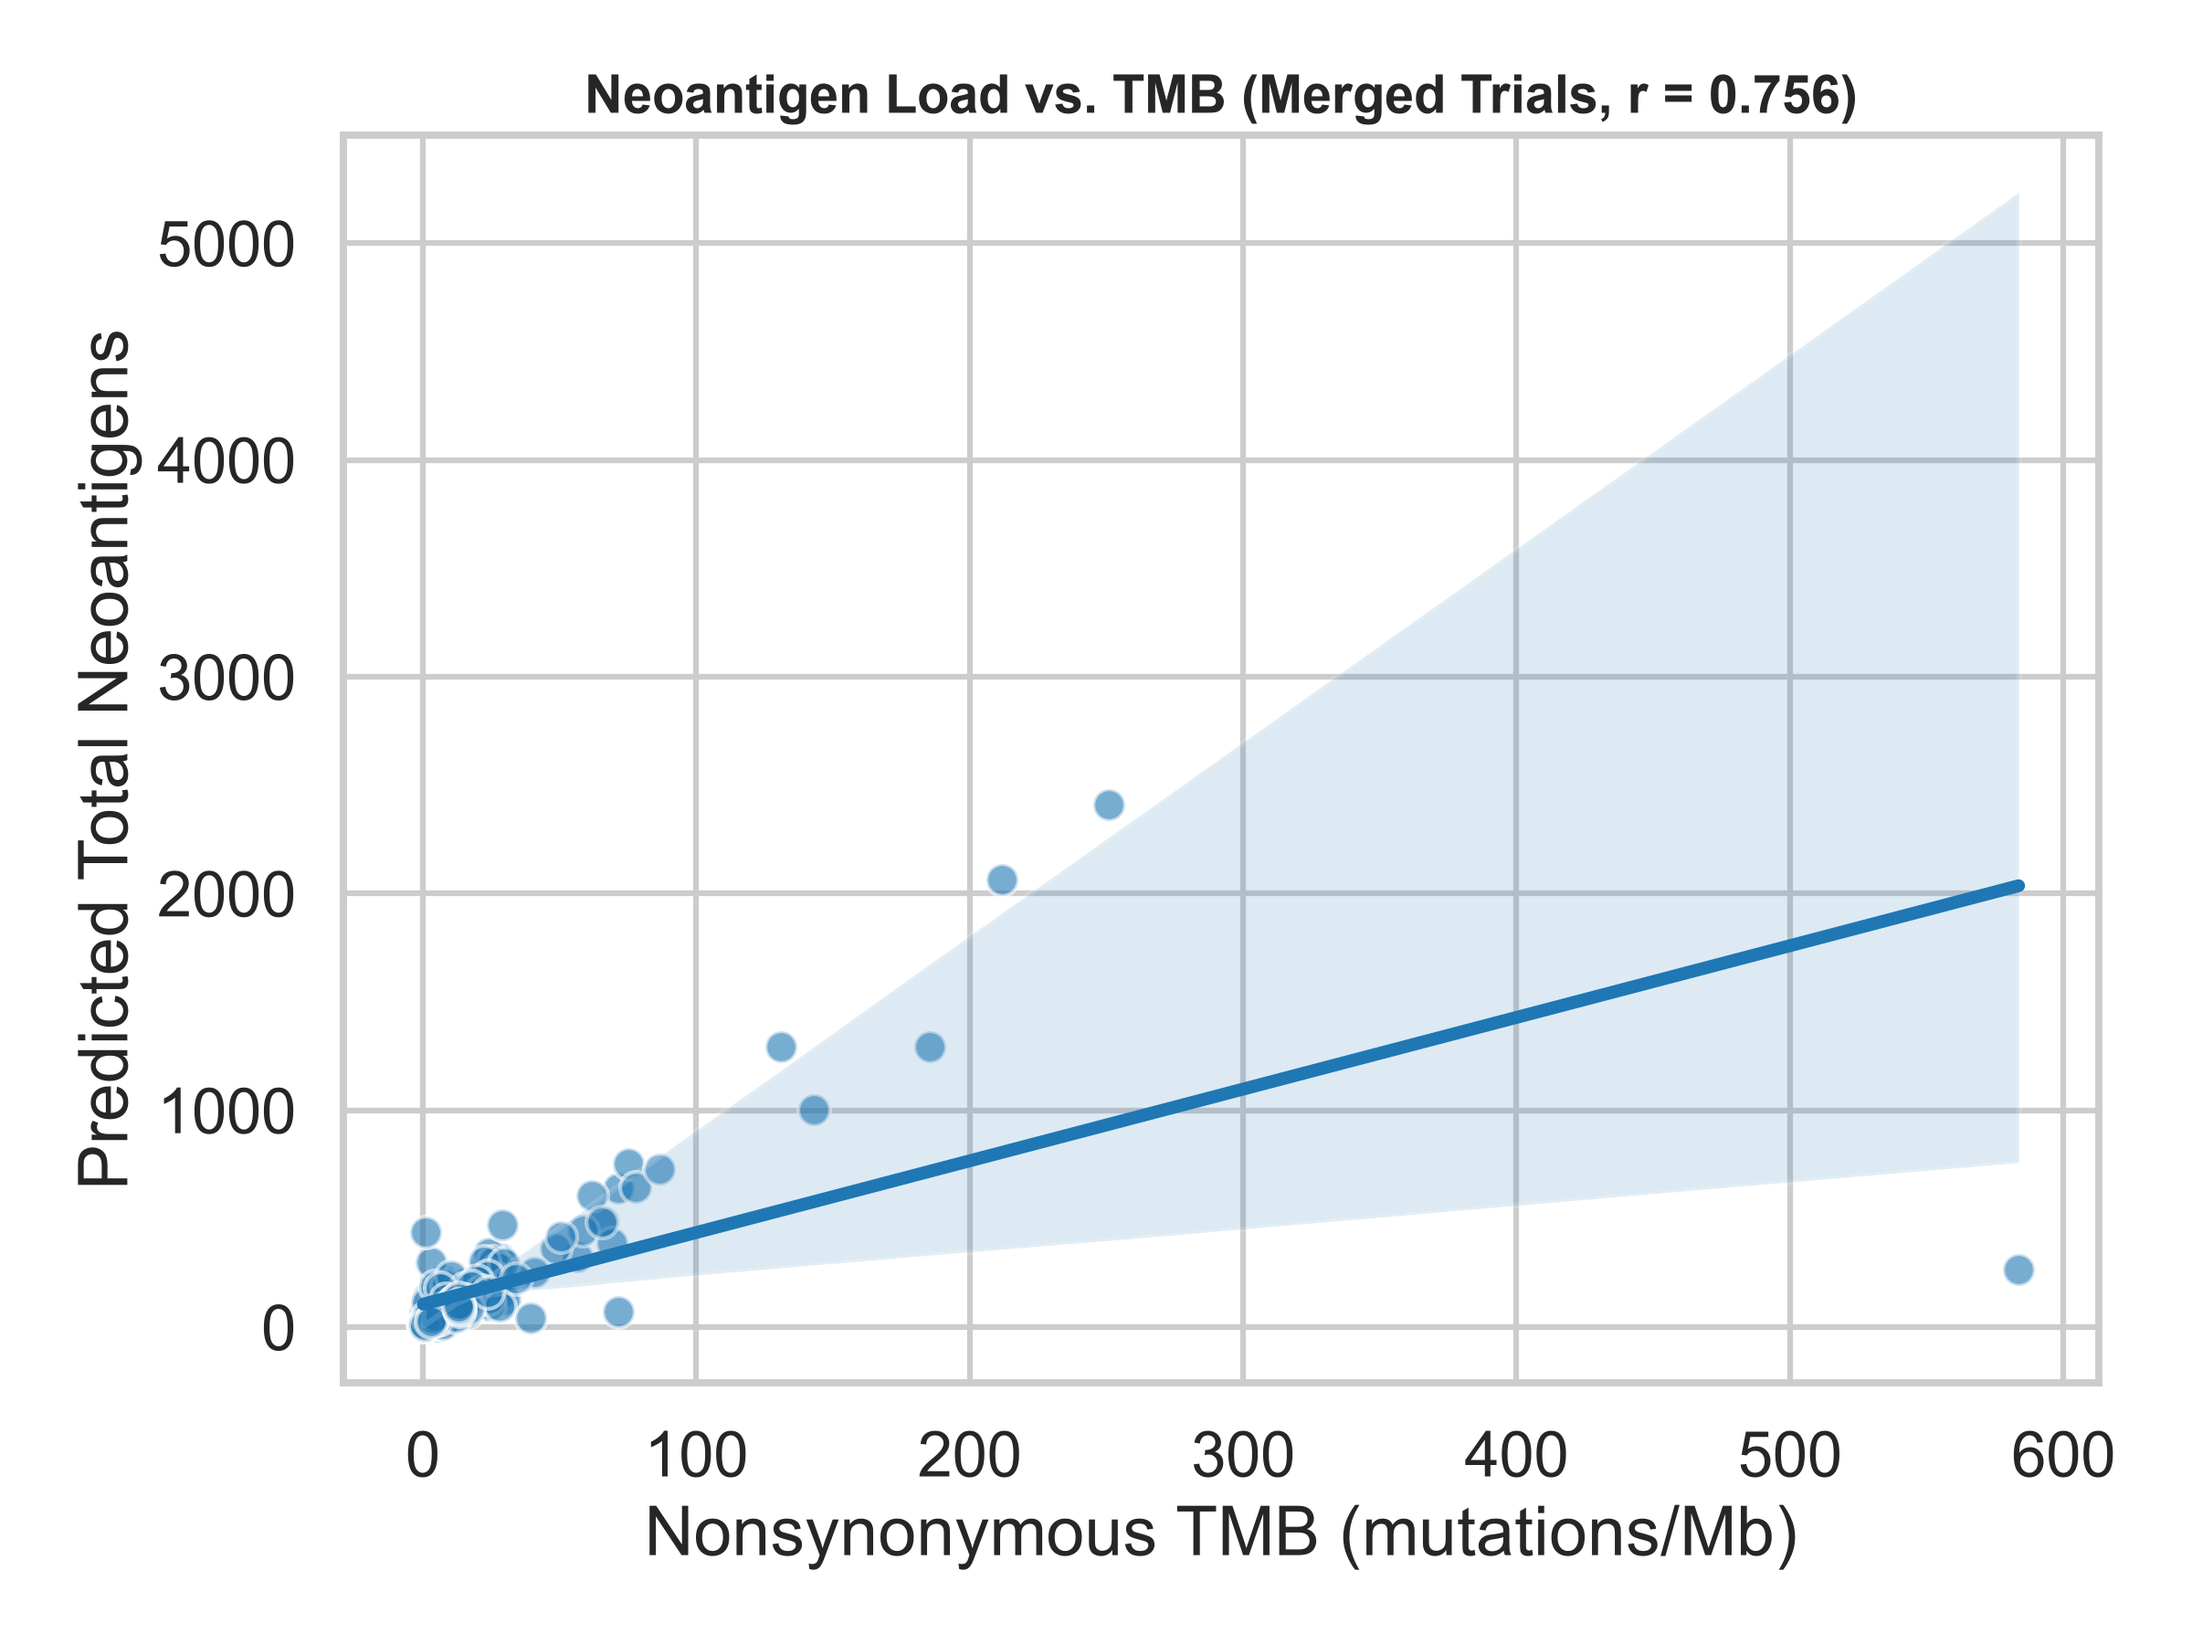
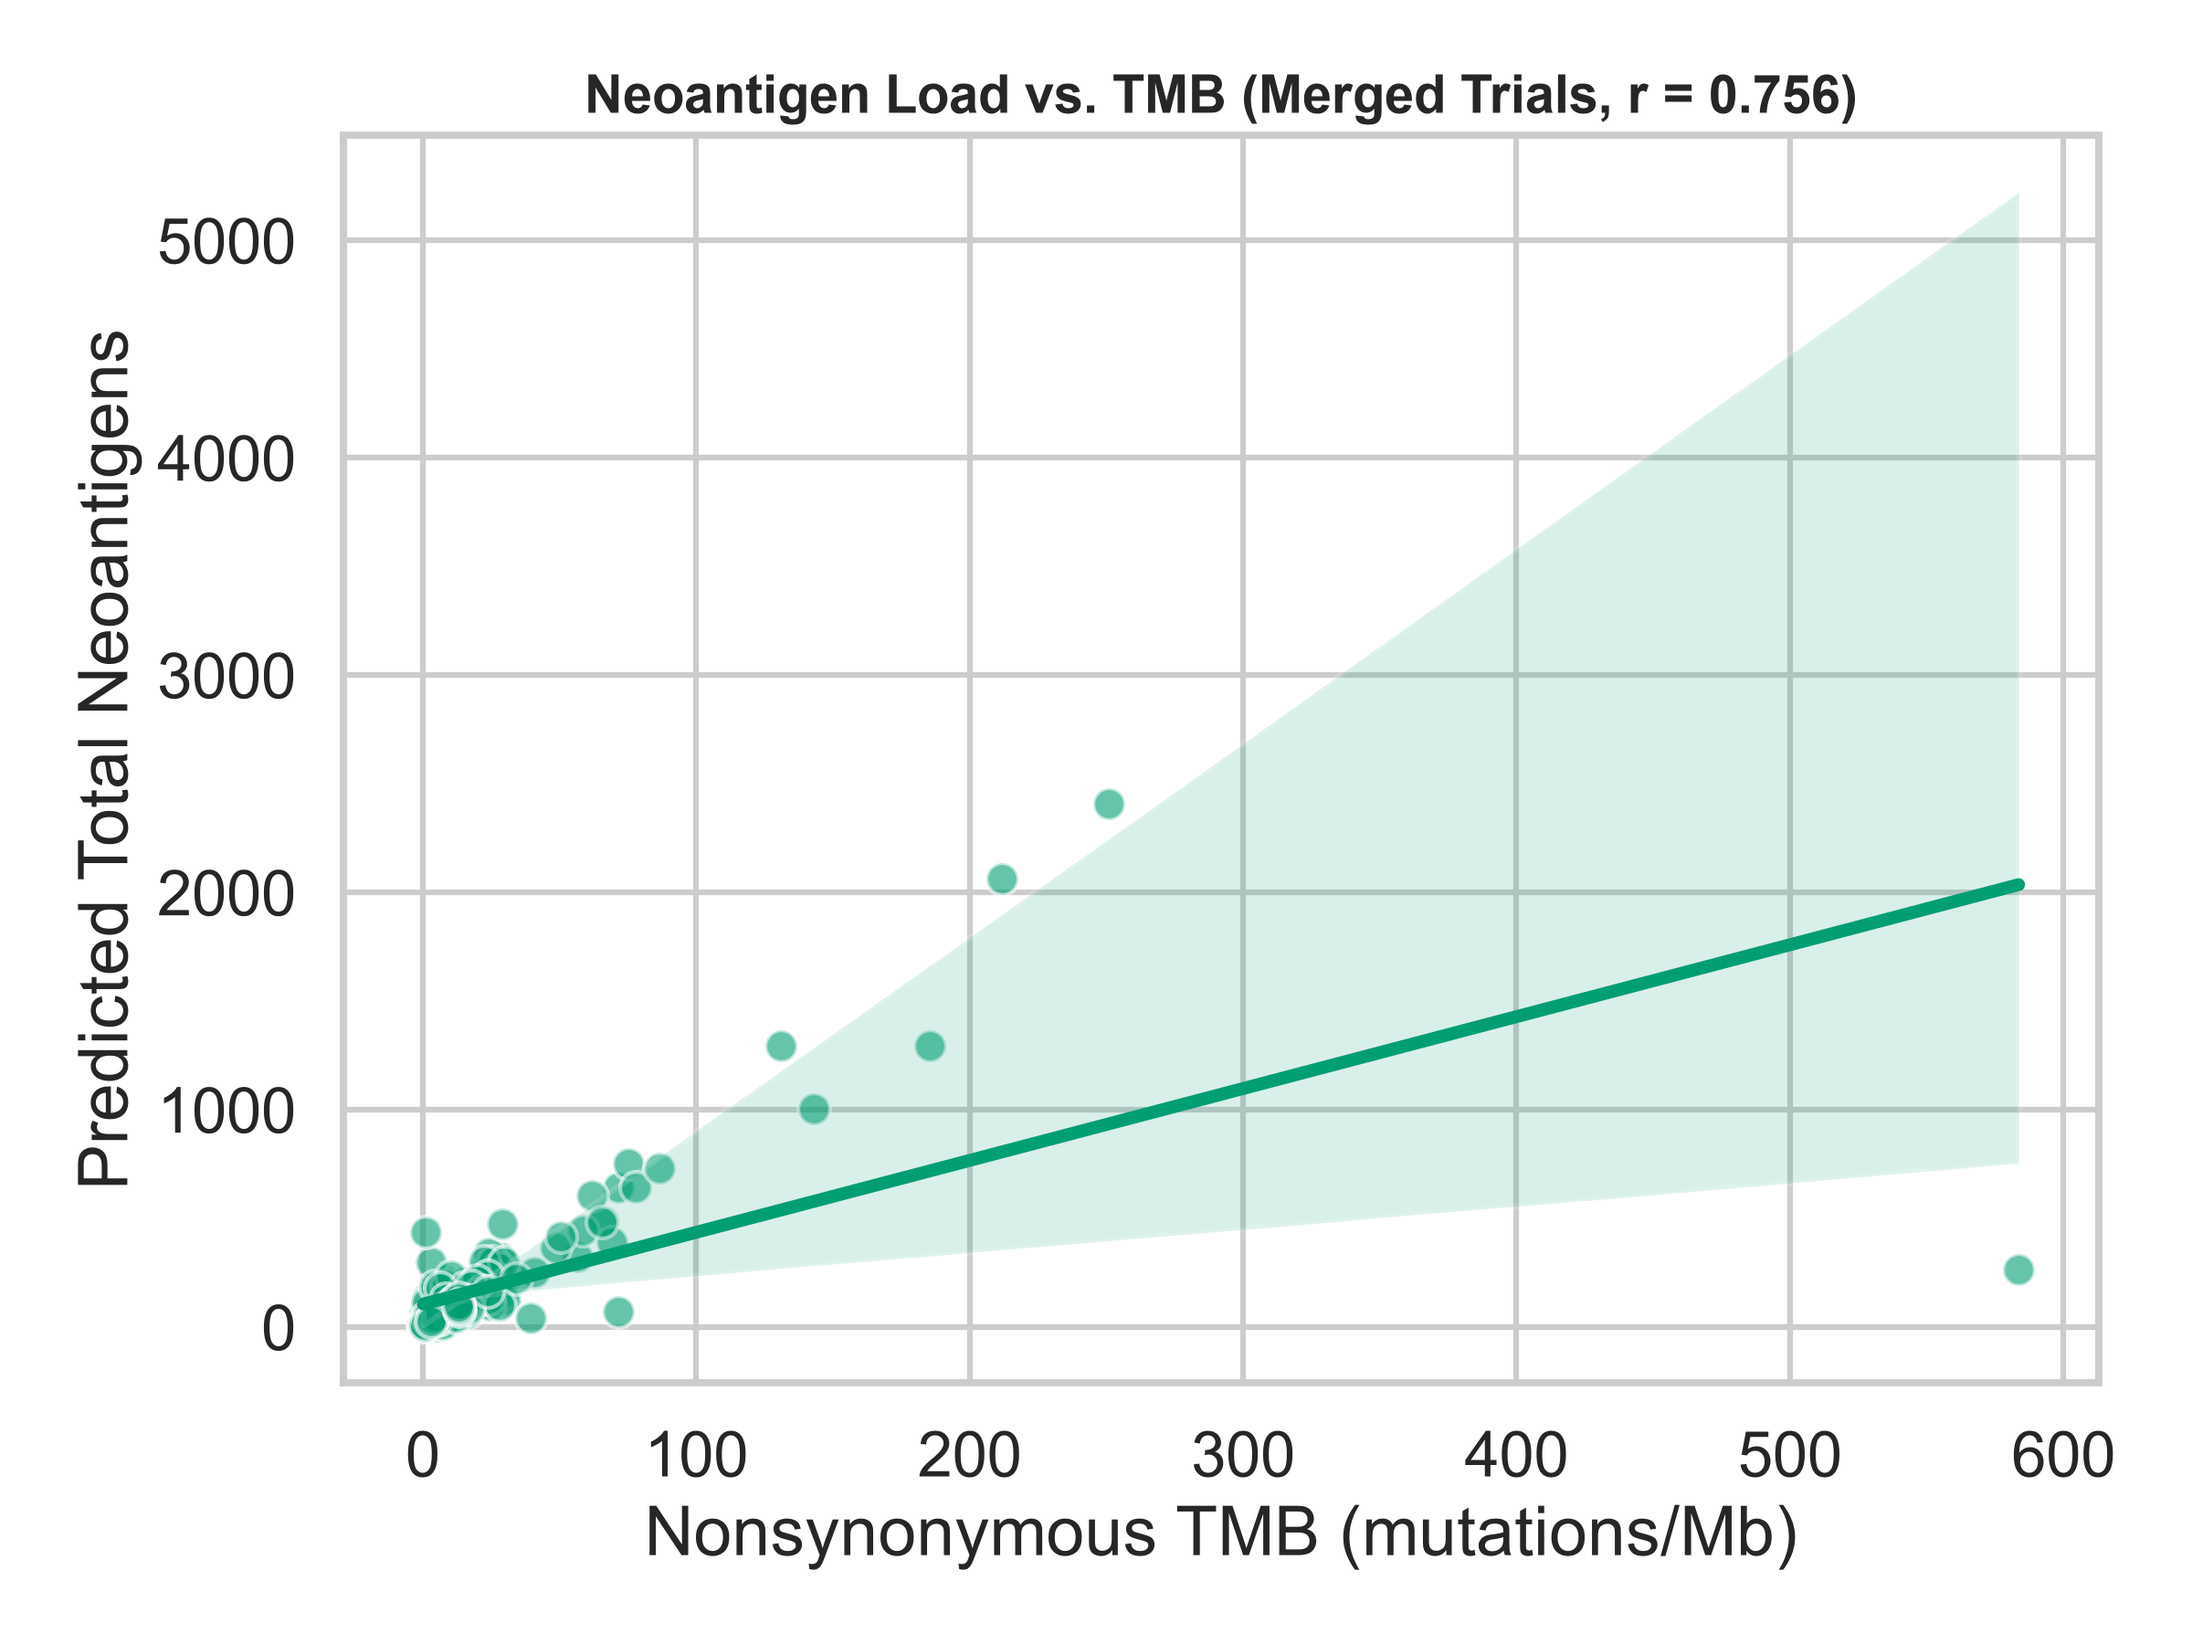
style(biomarkers): fix neoantigen vs TMB scatter to use Okabe-Ito Pooled Trials colour (#009E73)

diff --git a/q1-response-predictor/scripts/biomarkers/run_extended_biomarkers.py b/q1-response-predictor/scripts/biomarkers/run_extended_biomarkers.py
@@ -32,8 +32,9 @@ PLOT_DIR.mkdir(exist_ok=True, parents=True)
 REPORTS_DIR = BASE_DIR / "reports"
 REPORTS_DIR.mkdir(exist_ok=True, parents=True)
 
-# Import signature extractor
+# Import signature extractor and styles
 from src.signatures import extract_all_signatures
+from src.styles import COHORT_PALETTE, RESPONSE_PALETTE, set_presentation_style
 
 def clean_os_status(val):
     if pd.isna(val):
@@ -260,7 +261,7 @@ def main():
     # Plot Neoantigen vs TMB scatter
     sns.set_theme(style="whitegrid", context="talk")
     fig, ax = plt.subplots(figsize=(8, 6))
-    sns.regplot(data=df_trials_neo, x='TMB_NONSYNONYMOUS', y='TOTAL_NEOANTIGEN', color='#1f77b4', ax=ax,
+    sns.regplot(data=df_trials_neo, x='TMB_NONSYNONYMOUS', y='TOTAL_NEOANTIGEN', color=COHORT_PALETTE['Pooled Trials'], ax=ax,
                 scatter_kws={'alpha':0.6, 'edgecolor':'w', 's':70})
     ax.set_title(f"Neoantigen Load vs. TMB (Merged Trials, r = {r_spearman:.3f})", fontsize=14, weight='bold')
     ax.set_xlabel("Nonsynonymous TMB (mutations/Mb)")
@@ -369,7 +370,7 @@ def main():
     high_mask = df_tcga_survival['Aneu_Group'].str.startswith('High')
     low_mask = df_tcga_survival['Aneu_Group'].str.startswith('Low')
     
-    from src.styles import COHORT_PALETTE
+
 
     kmf.fit(df_tcga_survival.loc[low_mask, 'OS_MONTHS'], df_tcga_survival.loc[low_mask, 'os_status_clean'], label=f"Low Aneuploidy (N={low_mask.sum()})")
     kmf.plot_survival_function(ax=ax, color=COHORT_PALETTE["Liu 2019"], ci_show=False, linewidth=2.5) # Blue
